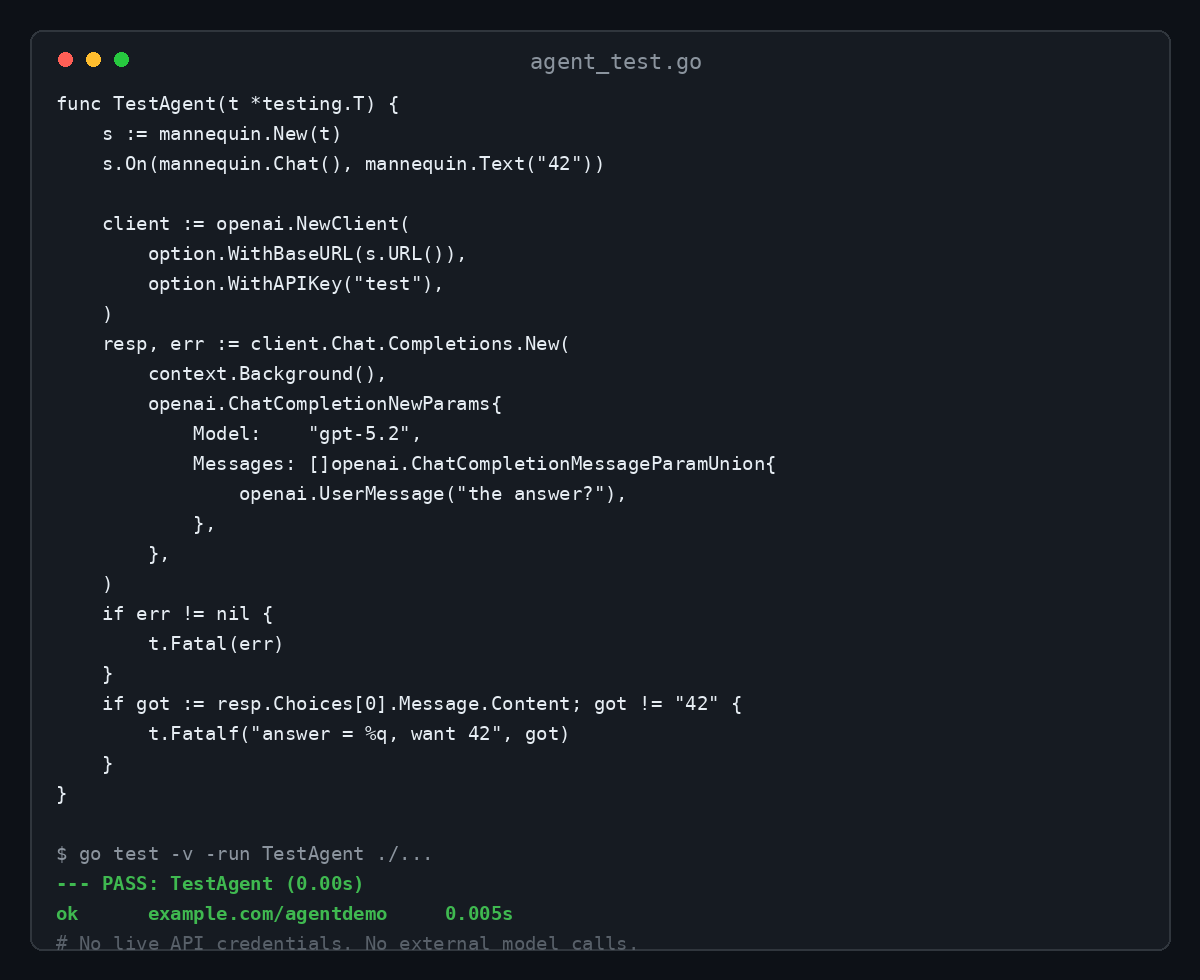
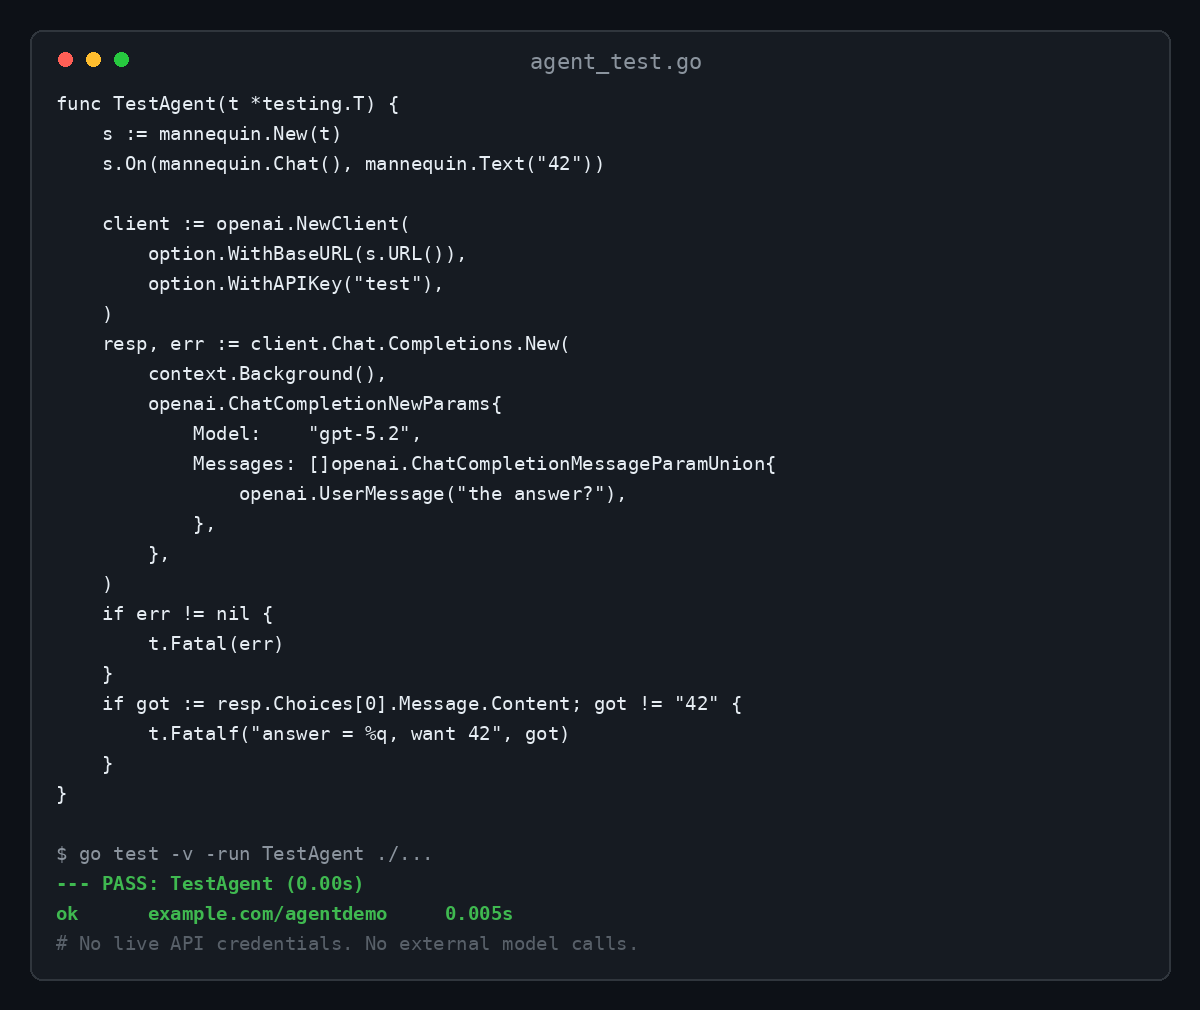
Docs: exact Record semantics, qualitative before/after, Go/SDK version pins; demo footer padding; test Func responder

diff --git a/assets/gen_visuals.py b/assets/gen_visuals.py
@@ -64,7 +64,7 @@ def hero():
 
 
 def demo():
-    W, H = 1200, 720
+    W, H = 1200, 1010
     img = Image.new("RGB", (W, H), BG)
     d = ImageDraw.Draw(img)
     # terminal chrome
@@ -79,11 +79,19 @@ def demo():
         ("    s := mannequin.New(t)", FG),
         ("    s.On(mannequin.Chat(), mannequin.Text(\"42\"))", FG),
         ("", None),
-        ("    client := openai.NewClient(option.WithBaseURL(s.URL()), option.WithAPIKey(\"test\"))", FG),
-        ("    resp, err := client.Chat.Completions.New(context.Background(), openai.ChatCompletionNewParams{", FG),
-        ("        Model:    \"gpt-5.2\",", FG),
-        ("        Messages: []openai.ChatCompletionMessageParamUnion{openai.UserMessage(\"the answer?\")},", FG),
-        ("    })", FG),
+        ("    client := openai.NewClient(", FG),
+        ("        option.WithBaseURL(s.URL()),", FG),
+        ("        option.WithAPIKey(\"test\"),", FG),
+        ("    )", FG),
+        ("    resp, err := client.Chat.Completions.New(", FG),
+        ("        context.Background(),", FG),
+        ("        openai.ChatCompletionNewParams{", FG),
+        ("            Model:    \"gpt-5.2\",", FG),
+        ("            Messages: []openai.ChatCompletionMessageParamUnion{", FG),
+        ("                openai.UserMessage(\"the answer?\"),", FG),
+        ("            },", FG),
+        ("        },", FG),
+        ("    )", FG),
         ("    if err != nil {", FG),
         ("        t.Fatal(err)", FG),
         ("    }", FG),
@@ -91,9 +99,10 @@ def demo():
         ("        t.Fatalf(\"answer = %q, want 42\", got)", FG),
         ("    }", FG),
         ("}", FG),
-        ("$ go test -run TestAgent ./...", MUTED),
+        ("", None),
+        ("$ go test -v -run TestAgent ./...", MUTED),
         ("--- PASS: TestAgent (0.00s)", GREEN),
-        ("ok      example.com/agentdemo     0.012s", GREEN),
+        ("ok      example.com/agentdemo     0.005s", GREEN),
         ("# No live API credentials. No external model calls.", (88, 96, 105)),
     ]
     y = 92

diff --git a/mannequin_test.go b/mannequin_test.go
@@ -326,3 +326,38 @@ func TestCutStreamAnthropic(t *testing.T) {
 		t.Fatal("cut stream contained the terminating message_stop event")
 	}
 }
+
+func TestFuncResponder(t *testing.T) {
+	s := New(t)
+	s.On(Chat(), Func(func(r *http.Request, reqBody []byte) (int, []byte) {
+		return http.StatusTeapot, []byte(`{"custom":true}`)
+	}))
+	resp := post(t, s.URL()+"/v1/chat/completions", `{"model":"gpt-5.2","messages":[]}`)
+	if resp.StatusCode != http.StatusTeapot {
+		t.Fatalf("status = %d, want %d", resp.StatusCode, http.StatusTeapot)
+	}
+	body := readBody(t, resp)
+	if !strings.Contains(string(body), `"custom":true`) {
+		t.Fatalf("body = %s", body)
+	}
+}
+
+func TestRecordCapturesFuncExchange(t *testing.T) {
+	cassette := filepath.Join(t.TempDir(), "proxy.json")
+	rec := New(nil)
+	rec.Record(cassette)
+	rec.On(Chat(), Func(func(r *http.Request, reqBody []byte) (int, []byte) {
+		return http.StatusOK, []byte(`{"upstream":"answer"}`)
+	}))
+	resp := post(t, rec.URL()+"/v1/chat/completions", `{"model":"gpt-5.2","messages":[{"role":"user","content":"ping"}]}`)
+	readBody(t, resp)
+	rec.Close()
+
+	data, err := os.ReadFile(cassette)
+	if err != nil {
+		t.Fatal(err)
+	}
+	if !strings.Contains(string(data), `"upstream"`) {
+		t.Fatalf("cassette missing Func exchange: %s", data)
+	}
+}

diff --git a/README.md b/README.md
@@ -5,6 +5,15 @@
 mannequin is a stand-in LLM server for Go tests. Point your OpenAI or Anthropic SDK at it and program the responses: fixed text, streamed chunks, injected failures, or recorded cassettes. No live API credentials. No external model calls.
 
 ```go
+import (
+    "context"
+    "testing"
+
+    "github.com/ofershap/mannequin"
+    "github.com/openai/openai-go/v2"
+    "github.com/openai/openai-go/v2/option"
+)
+
 func TestAgent(t *testing.T) {
     s := mannequin.New(t)
     s.On(mannequin.Chat(), mannequin.Text("42"))
@@ -40,7 +49,7 @@ This exact test, executed against the real openai-go SDK:
 - OpenAI `/v1/chat/completions` and Anthropic `/v1/messages` endpoints
 - Fixed-text and SSE streaming responses (chunk by chunk, the way agents actually read)
 - Failure injection: real status codes (429 with `Retry-After`, 500, any other), malformed payloads via custom bodies, and mid-stream cuts for when the provider drops
-- Record/replay cassettes with credential safety built in (details below)
+- Record/replay JSON cassettes: request headers are never recorded, and an optional scrub hook censors bodies before they are written
 - Matchers by endpoint and request-body content, so one server plays many models
 - Zero dependencies. `go get` and you're done
 
@@ -57,6 +66,8 @@ By hand:
 ```bash
 go get github.com/ofershap/mannequin@latest
 ```
+
+Requires Go 1.26 or newer.
 
 ## Programmed responses
 
@@ -84,12 +95,12 @@ Requests that match no rule get a 404 with a JSON error naming the unmatched cal
 
 ## Record and replay
 
-Record real exchanges once, replay them forever:
+`s.Record(path)` captures every exchange the server answers - method, path, status, and request and response bodies - into a JSON cassette. That covers your programmed rules and any custom handler you register with `mannequin.Func`. mannequin does not proxy real providers by itself; capturing upstream traffic means writing that proxy handler in your own code. Streaming responses are never recorded.
 
 ```go
 s := mannequin.New(t)
 s.Record("testdata/cassettes/pricing.json")
-s.On(mannequin.Chat(), mannequin.Text("...")) // or proxy code you wrap
+s.On(mannequin.Chat(), mannequin.Text("..."))
 ```
 
 Replay in CI without any key:
@@ -103,11 +114,11 @@ if err != nil {
 s.On(mannequin.Chat(), replay)
 ```
 
-Cassette safety, stated plainly: request headers are never recorded, so `Authorization` and `x-api-key` cannot end up in a cassette. Request and response bodies are recorded verbatim, and bodies can contain private prompts or outputs. Pass a scrub function to `Record` to censor bodies before they are stored, prefer synthetic fixtures, and review cassettes before committing them. Streaming responses are never recorded.
+Cassette safety, stated plainly: request headers are excluded from cassettes, so the `Authorization` and `x-api-key` headers you send are not stored. Request and response bodies are recorded verbatim - and a body can still contain a key or private text you put in a prompt. Pass a scrub function to `Record` to censor bodies before they are stored, prefer synthetic fixtures, and review cassettes before committing them. Streaming responses are never recorded.
 
 ## Before and after
 
-The alternative most Go projects use today is a hand-rolled `httptest` server per test file. A typical version of that is 30-60 lines of boilerplate per endpoint, no streaming, no cassette format, and a silent credential leak waiting to happen. mannequin is the same idea, finished.
+The do-it-yourself version of this is an `httptest` server with hand-serialized response JSON for every endpoint - and hand-written SSE if you need streaming, hand-built failure cases, and no cassette format. mannequin ships those pieces ready-made: both providers' wire formats, streaming, failure injection, mid-stream cuts, and record/replay, each one line per case.
 
 <details>
 <summary>Q&A</summary>
@@ -127,11 +138,11 @@ Yes. `mannequin.Stream("chunk1", "chunk2")` emits a real SSE stream per chunk, i
 **How do I test a provider dropping mid-stream?**
 `mannequin.Cut("partial", " answer")` sends the opening events and your chunks, then the connection dies: no terminating event, no clean end of body. The SDK surfaces a stream error after the partial chunks, so you can test recovery for real.
 
-**Can I record real API calls and replay them in CI?**
-Yes. `s.Record(path)` writes a JSON cassette; `mannequin.Replay(path)` serves it back. Headers are never recorded; scrub hooks censor bodies.
+**Can I record exchanges and replay them in CI?**
+Yes. `s.Record(path)` writes every answered exchange to a JSON cassette; `mannequin.Replay(path)` serves it back with no API key. Recording covers what the server itself answers, including custom `mannequin.Func` handlers - mannequin does not proxy real providers on its own. Request headers are excluded; bodies are stored verbatim unless you pass a scrub hook.
 
 **Which SDK versions does it work with?**
-The compatibility suite pins and tests specific versions (see `compat/`); the wire formats it implements are the stable chat-completions and messages APIs.
+The compatibility suite in `compat/` currently pins and tests openai-go v2.7.1 and anthropic-sdk-go v1.84.0, on Go 1.26 and 1.27; the wire formats it implements are the stable chat-completions and messages APIs.
 
 </details>
 
